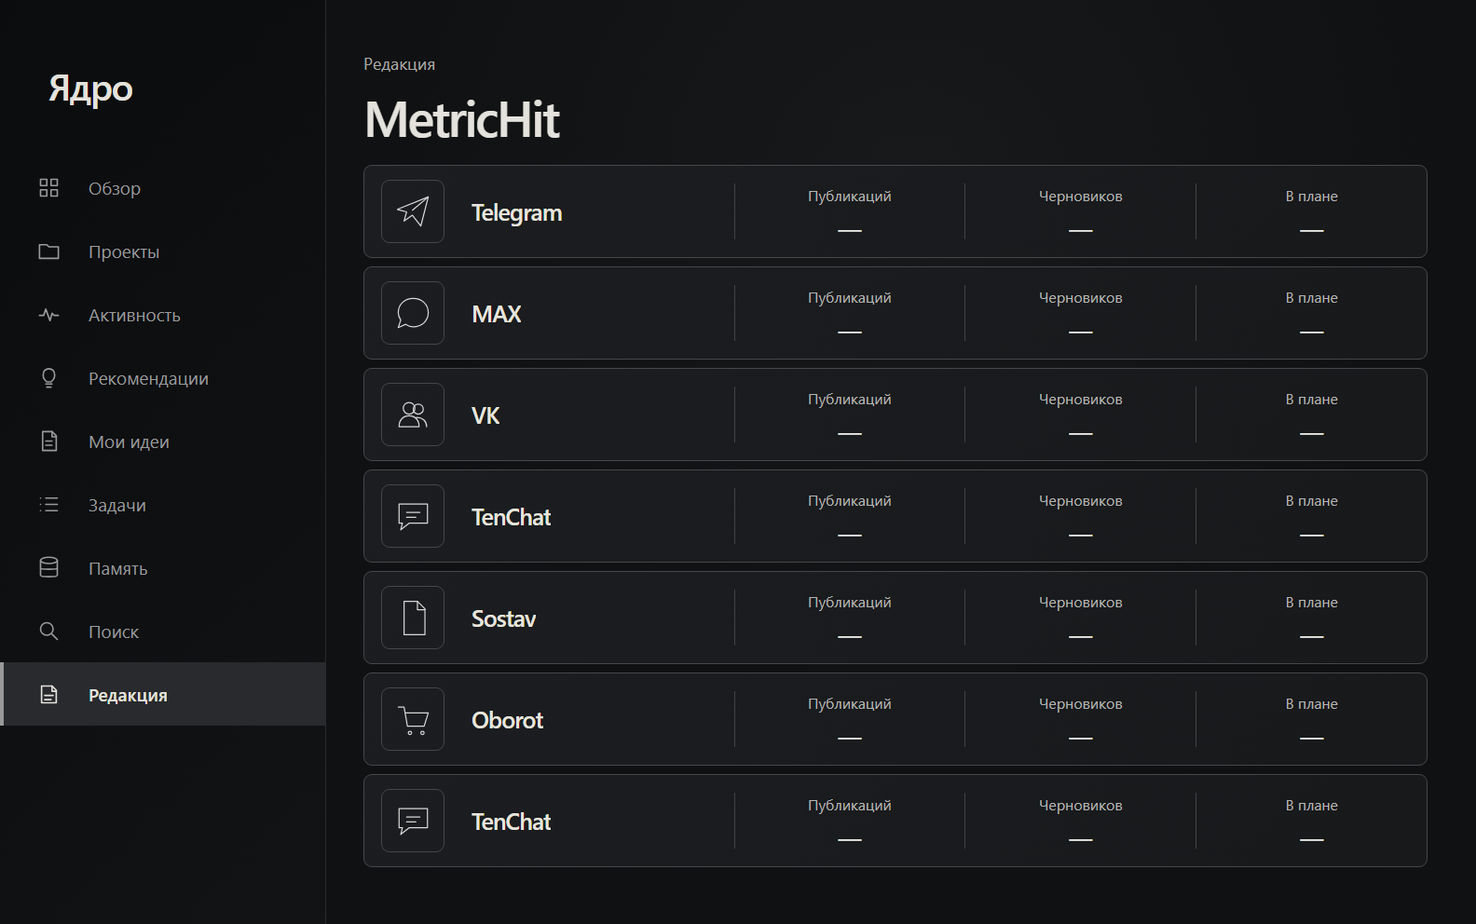
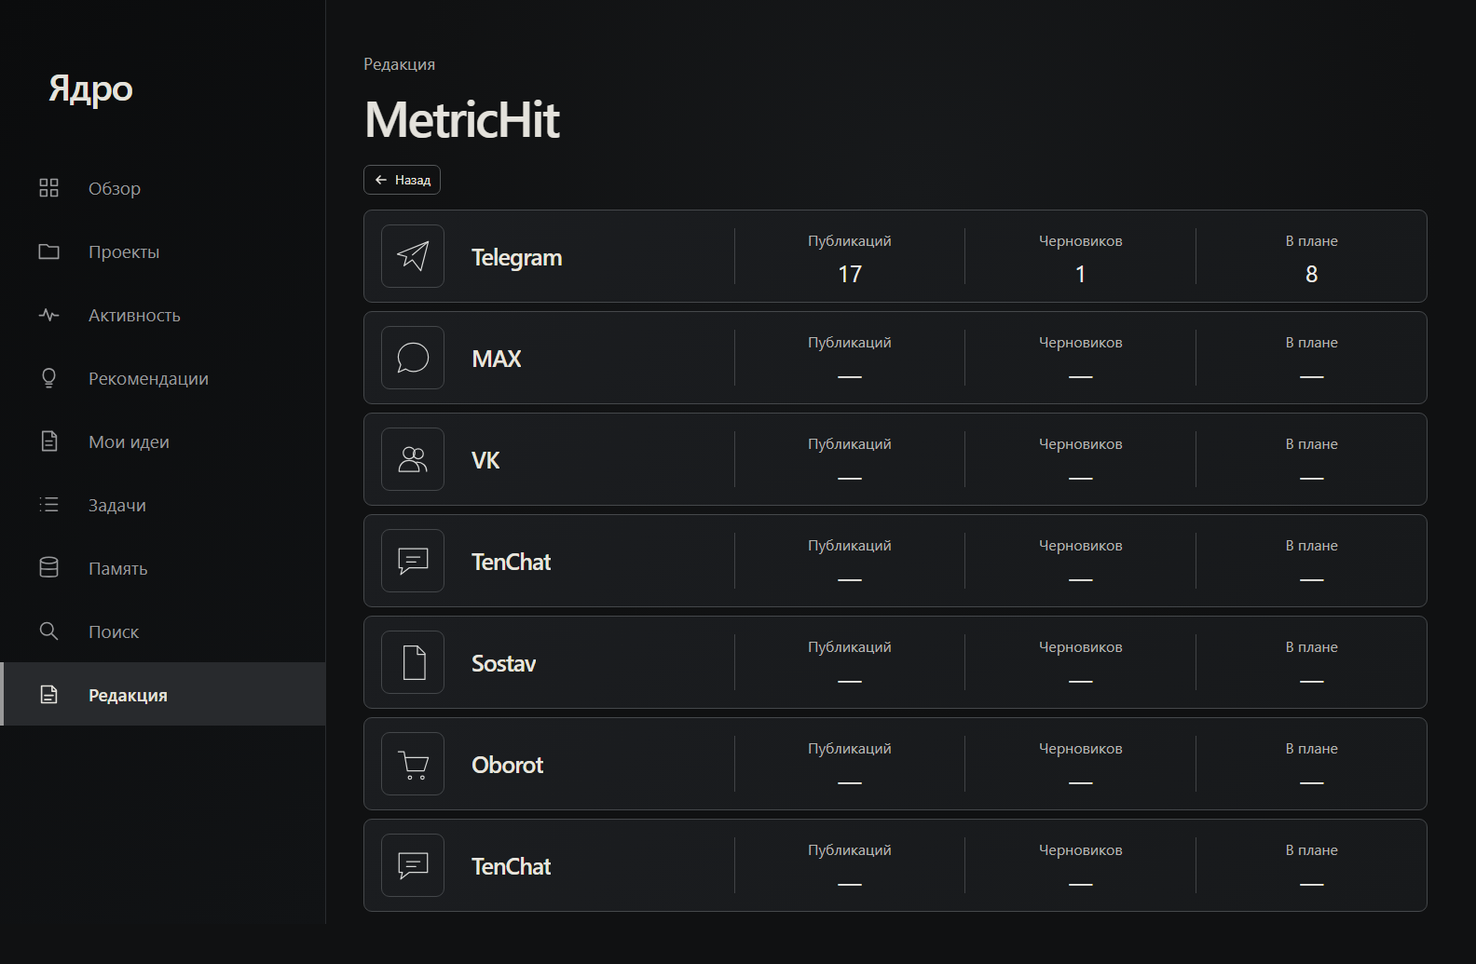
fix: restore editorial navigation

diff --git a/src/metrichit_os/operator_panel_assets/operator-panel.js b/src/metrichit_os/operator_panel_assets/operator-panel.js
@@ -65,8 +65,10 @@ setTimeout(load,0);
   const documentIcon='<svg viewBox="0 0 48 48" aria-hidden="true"><path d="M12 3h17l10 10v32H12Z"/><path d="M29 3v11h10M18 25h15M18 33h15"/></svg>';
   const chevronIcon='<svg viewBox="0 0 16 16" aria-hidden="true"><path d="m3 6 5 5 5-5"/></svg>';
   const copyIcon='<svg viewBox="0 0 16 16" aria-hidden="true"><rect x="5" y="5" width="8" height="8" rx="1"/><path d="M11 5V3H3v8h2"/></svg>';
+  const backIcon='<svg viewBox="0 0 16 16" aria-hidden="true"><path d="M13 8H3m4-4-4 4 4 4"/></svg>';
+  const backButton=onClick=>{const button=document.createElement('button');button.type='button';button.className='editorial-back';button.dataset.testid='editorial-back';button.innerHTML=`${backIcon}<span>Назад</span>`;button.onclick=onClick;return button};
   const modal=trigger=>{const overlay=document.createElement('div');overlay.className='editorial-semantic-modal';overlay.dataset.testid='editorial-semantic-modal';overlay.setAttribute('role','dialog');overlay.setAttribute('aria-modal','true');overlay.setAttribute('aria-labelledby','editorial-semantic-title');const close=()=>{document.removeEventListener('keydown',escape);overlay.remove();document.body.style.overflow='';trigger.focus()};const escape=event=>{if(event.key==='Escape')close()};overlay.innerHTML='<div class="editorial-semantic-dialog"><button type="button" class="editorial-modal-close" aria-label="Закрыть" data-testid="editorial-semantic-close">×</button><h3 id="editorial-semantic-title">Семантика публикации</h3><p data-testid="editorial-semantic-empty">Семантика не сохранена</p><button type="button" class="editorial-copy-all" data-testid="editorial-copy-all" disabled>Скопировать всё</button></div>';overlay.querySelector('[data-testid="editorial-semantic-close"]').onclick=close;overlay.onclick=event=>{if(event.target===overlay)close()};document.addEventListener('keydown',escape);document.body.append(overlay);document.body.style.overflow='hidden';overlay.querySelector('[data-testid="editorial-semantic-close"]').focus()};
-  const renderTelegram=()=>{document.body.dataset.editorialState='telegram';title.textContent='Telegram';description.hidden=true;let active='published';const renderList=()=>{const isPublished=active==='published',items=isPublished?posts:active==='drafts'?drafts:planned;const section=document.createElement('section');section.className='editorial-posts';const heading=document.createElement('h3');heading.textContent=isPublished?'Опубликованные материалы':active==='drafts'?'Черновики':'В плане';section.append(heading);const list=document.createElement('div');list.className='editorial-post-list';items.forEach(([post,date,fullUrl],index)=>{const row=document.createElement('article');row.className=`editorial-post-row${isPublished?'':' editorial-post-row-pending'}`;row.dataset.testid=`editorial-post-${isPublished?index:`${active}-${index}`}`;const identity=document.createElement('div');identity.className='editorial-post-identity';const urlParts=fullUrl?`<a class="editorial-short-url" data-testid="editorial-short-url-${index}" href="${fullUrl}" target="_blank" rel="noopener noreferrer">${fullUrl.replace('https://','')}</a><button type="button" class="editorial-url-toggle" data-testid="editorial-url-${index}" aria-expanded="false" aria-controls="editorial-full-url-${index}" aria-label="Показать полный URL">${chevronIcon}</button><button type="button" class="editorial-url-copy" data-testid="editorial-url-copy-${index}" aria-label="Скопировать полный URL">${copyIcon}</button><span class="editorial-url-status" data-testid="editorial-url-status-${index}" aria-live="polite"></span>`:isPublished?'<span class="editorial-url-missing" data-testid="editorial-url-missing">Ссылка не сохранена</span>':'';identity.innerHTML=`<span class="editorial-post-icon">${documentIcon}</span><span><strong>${post}</strong><span class="editorial-post-meta">${date}${urlParts}</span></span>`;let full;if(fullUrl){full=document.createElement('a');full.id=`editorial-full-url-${index}`;full.className='editorial-full-url hidden';full.dataset.testid=`editorial-full-url-${index}`;full.href=fullUrl;full.target='_blank';full.rel='noopener noreferrer';full.textContent=fullUrl;const url=identity.querySelector('.editorial-url-toggle');url.onclick=()=>{const hidden=full.classList.toggle('hidden');url.setAttribute('aria-expanded',String(!hidden));url.classList.toggle('is-expanded',!hidden);url.setAttribute('aria-label',hidden?'Показать полный URL':'Скрыть полный URL')};identity.querySelector('.editorial-url-copy').onclick=async()=>{const status=identity.querySelector('.editorial-url-status');try{await navigator.clipboard.writeText(fullUrl);status.textContent='Скопировано'}catch(error){status.textContent='Не удалось скопировать'}}}const semanticButton=document.createElement('button');semanticButton.type='button';semanticButton.className='editorial-semantic-trigger';semanticButton.dataset.testid=`editorial-semantic-${active}-${index}`;semanticButton.textContent='Семантика';semanticButton.onclick=()=>modal(semanticButton);row.append(identity,semanticButton);if(isPublished){const pf=document.createElement('label');pf.className='editorial-pf';pf.textContent='ПФ';const toggle=document.createElement('input');toggle.type='checkbox';toggle.checked=false;toggle.dataset.testid=`editorial-pf-${index}`;toggle.setAttribute('role','switch');toggle.setAttribute('aria-label',`ПФ для публикации ${post}`);const state=document.createElement('span');state.className='editorial-pf-state';state.textContent='Выкл';toggle.onchange=()=>{state.textContent=toggle.checked?'Вкл':'Выкл'};pf.append(toggle,state);row.append(pf)}if(full)row.append(full);list.append(row)});section.append(list);return section};const crumb=document.createElement('p');crumb.className='editorial-breadcrumb';crumb.textContent='MetricHit / Редакция';const stats=document.createElement('div');stats.className='editorial-stat-grid';const content=document.createElement('div');const setActive=next=>{active=next;for(const button of stats.querySelectorAll('button')){const selected=button.dataset.editorialFilter===active;button.classList.toggle('active',selected);button.setAttribute('aria-pressed',String(selected))}content.replaceChildren(renderList())};[['published','Публикаций','17'],['drafts','Черновиков','1'],['planned','В плане','8']].forEach(([key,label,value])=>{const card=document.createElement('button');card.type='button';card.className='editorial-stat-card';card.dataset.editorialFilter=key;card.dataset.testid=`editorial-filter-${key}`;card.innerHTML=`<span class="editorial-stat-icon">${documentIcon}</span><span class="editorial-stat-label">${label}</span><b class="editorial-stat-value">${value}</b>`;card.onclick=()=>setActive(key);stats.append(card)});screen.replaceChildren(crumb,stats,content);setActive(active)};
+  const renderTelegram=()=>{document.body.dataset.editorialState='telegram';title.textContent='Telegram';description.hidden=true;let active='published';const renderList=()=>{const isPublished=active==='published',items=isPublished?posts:active==='drafts'?drafts:planned;const section=document.createElement('section');section.className='editorial-posts';const heading=document.createElement('h3');heading.textContent=isPublished?'Опубликованные материалы':active==='drafts'?'Черновики':'В плане';section.append(heading);const list=document.createElement('div');list.className='editorial-post-list';items.forEach(([post,date,fullUrl],index)=>{const row=document.createElement('article');row.className=`editorial-post-row${isPublished?'':' editorial-post-row-pending'}`;row.dataset.testid=`editorial-post-${isPublished?index:`${active}-${index}`}`;const identity=document.createElement('div');identity.className='editorial-post-identity';const urlParts=fullUrl?`<a class="editorial-short-url" data-testid="editorial-short-url-${index}" href="${fullUrl}" target="_blank" rel="noopener noreferrer">${fullUrl.replace('https://','')}</a><button type="button" class="editorial-url-toggle" data-testid="editorial-url-${index}" aria-expanded="false" aria-controls="editorial-full-url-${index}" aria-label="Показать полный URL">${chevronIcon}</button><button type="button" class="editorial-url-copy" data-testid="editorial-url-copy-${index}" aria-label="Скопировать полный URL">${copyIcon}</button><span class="editorial-url-status" data-testid="editorial-url-status-${index}" aria-live="polite"></span>`:isPublished?'<span class="editorial-url-missing" data-testid="editorial-url-missing">Ссылка не сохранена</span>':'';identity.innerHTML=`<span class="editorial-post-icon">${documentIcon}</span><span><strong>${post}</strong><span class="editorial-post-meta">${date}${urlParts}</span></span>`;let full;if(fullUrl){full=document.createElement('a');full.id=`editorial-full-url-${index}`;full.className='editorial-full-url hidden';full.dataset.testid=`editorial-full-url-${index}`;full.href=fullUrl;full.target='_blank';full.rel='noopener noreferrer';full.textContent=fullUrl;const url=identity.querySelector('.editorial-url-toggle');url.onclick=()=>{const hidden=full.classList.toggle('hidden');url.setAttribute('aria-expanded',String(!hidden));url.classList.toggle('is-expanded',!hidden);url.setAttribute('aria-label',hidden?'Показать полный URL':'Скрыть полный URL')};identity.querySelector('.editorial-url-copy').onclick=async()=>{const status=identity.querySelector('.editorial-url-status');try{await navigator.clipboard.writeText(fullUrl);status.textContent='Скопировано'}catch(error){status.textContent='Не удалось скопировать'}}}const semanticButton=document.createElement('button');semanticButton.type='button';semanticButton.className='editorial-semantic-trigger';semanticButton.dataset.testid=`editorial-semantic-${active}-${index}`;semanticButton.textContent='Семантика';semanticButton.onclick=()=>modal(semanticButton);row.append(identity,semanticButton);if(isPublished){const pf=document.createElement('label');pf.className='editorial-pf';pf.textContent='ПФ';const toggle=document.createElement('input');toggle.type='checkbox';toggle.checked=false;toggle.dataset.testid=`editorial-pf-${index}`;toggle.setAttribute('role','switch');toggle.setAttribute('aria-label',`ПФ для публикации ${post}`);const state=document.createElement('span');state.className='editorial-pf-state';state.textContent='Выкл';toggle.onchange=()=>{state.textContent=toggle.checked?'Вкл':'Выкл'};pf.append(toggle,state);row.append(pf)}if(full)row.append(full);list.append(row)});section.append(list);return section};const crumb=document.createElement('p');crumb.className='editorial-breadcrumb';crumb.textContent='MetricHit / Редакция';const stats=document.createElement('div');stats.className='editorial-stat-grid';const content=document.createElement('div');const setActive=next=>{active=next;for(const button of stats.querySelectorAll('button')){const selected=button.dataset.editorialFilter===active;button.classList.toggle('active',selected);button.setAttribute('aria-pressed',String(selected))}content.replaceChildren(renderList())};[['published','Публикаций','17'],['drafts','Черновиков','1'],['planned','В плане','8']].forEach(([key,label,value])=>{const card=document.createElement('button');card.type='button';card.className='editorial-stat-card';card.dataset.editorialFilter=key;card.dataset.testid=`editorial-filter-${key}`;card.innerHTML=`<span class="editorial-stat-icon">${documentIcon}</span><span class="editorial-stat-label">${label}</span><b class="editorial-stat-value">${value}</b>`;card.onclick=()=>setActive(key);stats.append(card)});screen.replaceChildren(backButton(()=>window.metricHitEditorialBackToPlatforms()),crumb,stats,content);setActive(active)};
   screen.addEventListener('click',event=>{const platform=event.target.closest('[data-testid="editorial-platform-0"]');if(platform){event.stopImmediatePropagation();renderTelegram()}},true);
   screen.addEventListener('keydown',event=>{const platform=event.target.closest('[data-testid="editorial-platform-0"]');if(platform&&(event.key==='Enter'||event.key===' ')){event.preventDefault();event.stopImmediatePropagation();renderTelegram()}},true);
 })();
@@ -502,8 +504,9 @@ window.addEventListener('popstate',()=>{if(q().get('view')==='search')setTimeout
   const projects=['MetricHit','Тест 1','Тест 2','Тест 3'],platforms=['Telegram','MAX','VK','TenChat','Sostav','Oborot','TenChat'];
   const hideOtherScreens=()=>{for(const selector of ['#overview','#projects','#activity','#search','#knowledge','#memory','#entries'])document.querySelector(selector)?.classList.add('hidden')};
   const icons={document:'<svg viewBox="0 0 48 48" aria-hidden="true"><path d="M12 3h17l10 10v32H12Z"/><path d="M29 3v11h10M18 25h15M18 33h15"/></svg>',Telegram:'<svg viewBox="0 0 48 48" aria-hidden="true"><path d="m5 21 37-15-9 35-10-13-10 7 3-11Z"/><path d="m23 22 19-16"/></svg>',MAX:'<svg viewBox="0 0 48 48" aria-hidden="true"><path d="M42 23c0 10-8 17-18 17-3 0-6-1-9-3l-9 4 3-9c-2-3-3-6-3-9C6 13 14 6 24 6s18 7 18 17Z"/></svg>',VK:'<svg viewBox="0 0 48 48" aria-hidden="true"><circle cx="19" cy="16" r="7"/><circle cx="30" cy="17" r="6"/><path d="M7 38c0-8 5-13 12-13s12 5 12 13ZM28 27c7 0 12 4 12 11"/></svg>',TenChat:'<svg viewBox="0 0 48 48" aria-hidden="true"><path d="M7 9h34v23H19l-10 8 2-8H7Z"/><path d="M16 19h16M16 25h11"/></svg>',Sostav:'<svg viewBox="0 0 48 48" aria-hidden="true"><path d="M13 4h16l9 9v31H13Z"/><path d="M29 4v10h9"/></svg>',Oborot:'<svg viewBox="0 0 48 48" aria-hidden="true"><path d="M6 9h7l4 23h20l5-16H14"/><circle cx="20" cy="40" r="2"/><circle cx="35" cy="40" r="2"/></svg>'};
+  function renderPlatforms(){document.body.dataset.editorialState='platforms';title.textContent='MetricHit';description.hidden=true;screen.replaceChildren();const back=document.createElement('button');back.type='button';back.className='editorial-back';back.dataset.testid='editorial-back';back.innerHTML='<svg viewBox="0 0 16 16" aria-hidden="true"><path d="M13 8H3m4-4-4 4 4 4"/></svg><span>Назад</span>';back.onclick=renderProjects;const list=document.createElement('div');list.className='editorial-platform-list';list.dataset.testid='editorial-platform-list';platforms.forEach((name,index)=>{const row=document.createElement('article');row.className='editorial-platform-row';row.dataset.testid=`editorial-platform-${index}`;const identity=document.createElement('div');identity.className='editorial-platform-identity';const icon=document.createElement('span');icon.className='editorial-platform-icon';icon.innerHTML=icons[name];const heading=document.createElement('strong');heading.textContent=name;identity.append(icon,heading);row.append(identity);['Публикаций','Черновиков','В плане'].forEach((label,metricIndex)=>{const metric=document.createElement('div');metric.className='editorial-metric';metric.innerHTML=`<span>${label}</span><b>${index===0?['17','1','8'][metricIndex]:'—'}</b>`;row.append(metric)});list.append(row)});screen.append(back,list)}
+  window.metricHitEditorialBackToPlatforms=renderPlatforms;
   function renderProjects(){document.body.dataset.editorialState='projects';title.textContent='Редакция';description.textContent='Проекты редакции. Выберите проект, чтобы продолжить работу.';description.hidden=false;screen.replaceChildren();const list=document.createElement('div');list.className='editorial-list';list.dataset.testid='editorial-project-list';projects.forEach((name,index)=>{const button=document.createElement('button');button.type='button';button.className='editorial-project-row';button.dataset.testid=`editorial-project-${index}`;const icon=document.createElement('span');icon.className='editorial-project-icon';icon.innerHTML=icons.document;const copy=document.createElement('span');copy.className='editorial-project-copy';const heading=document.createElement('strong');heading.textContent=name;const sub=document.createElement('span');sub.textContent=index===0?'Основной проект редакции':'Проект редакции';copy.append(heading,sub);button.append(icon,copy);if(index===0)button.onclick=renderPlatforms;list.append(button)});screen.append(list)}
-  function renderPlatforms(){document.body.dataset.editorialState='platforms';title.textContent='MetricHit';description.hidden=true;screen.replaceChildren();const list=document.createElement('div');list.className='editorial-platform-list';list.dataset.testid='editorial-platform-list';platforms.forEach((name,index)=>{const row=document.createElement('article');row.className='editorial-platform-row';row.dataset.testid=`editorial-platform-${index}`;const identity=document.createElement('div');identity.className='editorial-platform-identity';const icon=document.createElement('span');icon.className='editorial-platform-icon';icon.innerHTML=icons[name];const heading=document.createElement('strong');heading.textContent=name;identity.append(icon,heading);row.append(identity);['Публикаций','Черновиков','В плане'].forEach(label=>{const metric=document.createElement('div');metric.className='editorial-metric';metric.innerHTML=`<span>${label}</span><b>—</b>`;row.append(metric)});list.append(row)});screen.append(list)}
   function openEditorial(){view='editorial';document.body.dataset.viewName='editorial';viewLabel.textContent='Редакция';document.querySelectorAll('[data-view]').forEach(candidate=>{const active=candidate===tab;candidate.classList.toggle('active',active);active?candidate.setAttribute('aria-current','page'):candidate.removeAttribute('aria-current')});hideOtherScreens();screen.classList.remove('hidden');renderProjects();history.replaceState(null,'','/?view=editorial')}
   tab.addEventListener('click',event=>{event.stopImmediatePropagation();openEditorial()},true);
   document.querySelectorAll('[data-view]:not([data-view="editorial"])').forEach(button=>button.addEventListener('click',()=>screen.classList.add('hidden')));

diff --git a/src/metrichit_os/operator_panel_assets/operator-panel.css b/src/metrichit_os/operator_panel_assets/operator-panel.css
@@ -407,6 +407,7 @@ body[data-view-name="editorial"] .page-header{margin:15px 0 52px}
 body[data-view-name="editorial"] .page-header h2{margin:0 0 20px;font-size:44px;font-weight:520;letter-spacing:-.045em}
 body[data-view-name="editorial"] .page-header p{margin:0;font-size:18px;color:#aaa9a6}
 .editorial-list{display:grid;width:min(624px,100%);gap:20px}
+.editorial-back{display:inline-flex;align-items:center;gap:7px;margin:0 0 16px;padding:7px 10px;border:1px solid #55585a;border-radius:7px;background:transparent;color:#e8e5de;font:inherit;font-size:14px;line-height:1;cursor:pointer}.editorial-back svg{width:16px;height:16px;fill:none;stroke:currentColor;stroke-width:1.7;stroke-linecap:round;stroke-linejoin:round}.editorial-back:hover{border-color:#898b8d;background:#242628}.editorial-back:focus-visible{outline:2px solid #e9e8e3;outline-offset:3px}
 .editorial-project-row{display:grid;grid-template-columns:70px minmax(0,1fr);gap:22px;align-items:center;width:100%;min-height:126px;padding:22px 44px;border:1px solid #4a4d50;border-radius:7px;background:linear-gradient(135deg,#1a1c1f,#151719);color:#e8e5de;text-align:left}
 .editorial-project-row:hover,.editorial-project-row:focus-visible{background:linear-gradient(135deg,#202326,#181a1c);outline:2px solid #777a7d;outline-offset:2px}
 .editorial-project-icon{display:grid;place-items:center;width:58px;height:58px;color:#bdbebd}

diff --git a/tests_python/test_operator_panel_e2e.py b/tests_python/test_operator_panel_e2e.py
@@ -852,20 +852,32 @@ def test_editorial_matches_project_and_platform_references(page: Page, panel: st
     expect(page.get_by_text("Скоро будет доступен")).to_have_count(0)
     expect(page.locator(".editorial-project-arrow")).to_have_count(0)
     expect(page.locator(".editorial-list")).to_have_count(1)
-    page.screenshot(path="work/editorial-projects-verified.png", full_page=True)
 
     page.get_by_test_id("editorial-project-0").focus()
     page.keyboard.press("Enter")
     rows = page.locator('[data-testid^="editorial-platform-"]:not([data-testid="editorial-platform-list"])')
     expect(rows).to_have_count(7)
     expect(page.get_by_test_id("page-title")).to_have_text("MetricHit")
-    assert [row.inner_text() for row in rows.all()] == [f"{name}\nПубликаций\n—\nЧерновиков\n—\nВ плане\n—" for name in ["Telegram", "MAX", "VK", "TenChat", "Sostav", "Oborot", "TenChat"]]
-    expect(page.get_by_test_id("editorial-back")).to_have_count(0)
+    expected_platforms = ["Telegram", "MAX", "VK", "TenChat", "Sostav", "Oborot", "TenChat"]
+    assert rows.first.bounding_box()["height"] == rows.nth(1).bounding_box()["height"] == 100
+    assert rows.first.inner_text() == "Telegram\nПубликаций\n17\nЧерновиков\n1\nВ плане\n8"
+    assert [row.inner_text() for row in rows.all()[1:]] == [f"{name}\nПубликаций\n—\nЧерновиков\n—\nВ плане\n—" for name in expected_platforms[1:]]
+    platform_back = page.get_by_test_id("editorial-back")
+    expect(platform_back).to_have_text("Назад")
+    expect(platform_back.locator("svg")).to_have_count(1)
     expect(page.locator(".editorial-platform-heading")).to_have_count(0)
     page.screenshot(path="work/editorial-platforms-verified.png", full_page=True)
+    platform_back.focus()
+    page.keyboard.press("Enter")
+    expect(page.get_by_test_id("editorial-project-list")).to_be_visible()
+    page.get_by_test_id("editorial-project-0").click()
+    expect(page.get_by_test_id("editorial-platform-list")).to_be_visible()
 
     page.get_by_test_id("editorial-platform-0").click()
     expect(page.get_by_test_id("page-title")).to_have_text("Telegram")
+    telegram_back = page.get_by_test_id("editorial-back")
+    expect(telegram_back).to_have_text("Назад")
+    expect(telegram_back.locator("svg")).to_have_count(1)
     expect(page.locator(".editorial-stat-card")).to_have_count(3)
     expected_titles = [
         "Как подготовить сайт к запуску ПФ: 5 проверок для владельца бизнеса",
@@ -909,7 +921,6 @@ def test_editorial_matches_project_and_platform_references(page: Page, panel: st
     expect(draft_rows.first.locator("a")).to_have_count(0)
     expect(drafts_filter).to_have_attribute("aria-pressed", "true")
     assert "active" in (drafts_filter.get_attribute("class") or "")
-    page.screenshot(path="work/editorial-telegram-drafts-verified.png", full_page=True)
     planned_filter.focus()
     page.keyboard.press("Enter")
     planned_filter.click()
@@ -931,7 +942,6 @@ def test_editorial_matches_project_and_platform_references(page: Page, panel: st
     expect(planned_rows.locator("a")).to_have_count(0)
     expect(planned_filter).to_have_attribute("aria-pressed", "true")
     assert "active" in (planned_filter.get_attribute("class") or "")
-    page.screenshot(path="work/editorial-telegram-planned-verified.png", full_page=True)
     published_filter.click()
     expect(page.locator('[data-testid^="editorial-post-"]')).to_have_count(17)
     expect(page.get_by_test_id("editorial-pf-2")).to_have_count(1)
@@ -977,6 +987,14 @@ def test_editorial_matches_project_and_platform_references(page: Page, panel: st
     assert abs(on_geometry["center"] - on_geometry["thumbCenter"]) <= 1
     assert on_geometry["background"] in {"rgb(247, 247, 244)", "rgb(255, 255, 255)"}
     page.screenshot(path="work/editorial-telegram-detail-verified.png", full_page=True)
+
+    telegram_back.focus()
+    page.keyboard.press("Enter")
+    expect(page.get_by_test_id("editorial-platform-list")).to_be_visible()
+    page.get_by_test_id("editorial-platform-0").click()
+    expect(page.get_by_test_id("page-title")).to_have_text("Telegram")
+    page.get_by_test_id("editorial-back").click()
+    expect(page.get_by_test_id("editorial-platform-list")).to_be_visible()
 
     page.set_viewport_size({"width": 390, "height": 844})
     assert page.evaluate("document.documentElement.scrollWidth <= window.innerWidth")
